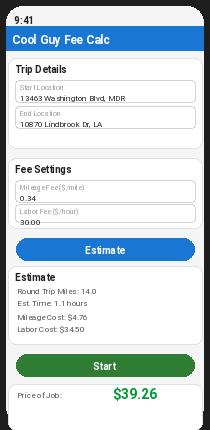
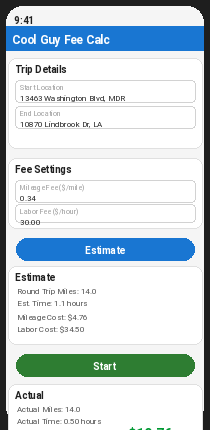
Price card now shows Actual miles, Actual time, and total price; update mockup

diff --git a/app/src/main/java/com/coolguy/feeCalc/MainActivity.kt b/app/src/main/java/com/coolguy/feeCalc/MainActivity.kt
@@ -33,6 +33,8 @@ class MainActivity : AppCompatActivity() {
     private var estimatedMiles = 0.0
     private var estimatedMileageFee = 0.0
     private var estimatedLaborFee = 0.0
+    private var savedMileageRate = 0.34
+    private var savedLaborRate = 30.0
     private var jobStartNanos = 0L
 
     companion object {
@@ -197,6 +199,8 @@ class MainActivity : AppCompatActivity() {
                 estimatedMiles = result.totalMiles
                 estimatedMileageFee = estimatedMiles * mileageRate
                 estimatedLaborFee = result.totalHours * laborRate
+                savedMileageRate = mileageRate
+                savedLaborRate = laborRate
 
                 withContext(Dispatchers.Main) {
                     showEstimate(estimatedMiles, result.totalHours,
@@ -219,13 +223,17 @@ class MainActivity : AppCompatActivity() {
                 applyState()
             }
             JobState.RUNNING -> {
-                val laborRate = binding.etLaborFee.text.toString().toDoubleOrNull() ?: 30.00
                 val elapsedNanos = System.nanoTime() - jobStartNanos
                 val elapsedMinutes = elapsedNanos / 60_000_000_000.0
-                val actualLaborFee = (elapsedMinutes / 60.0) * laborRate
+                val elapsedHours = elapsedMinutes / 60.0
+                val actualLaborFee = elapsedHours * savedLaborRate
                 val totalFee = estimatedMileageFee + actualLaborFee
 
                 binding.cardPrice.visibility = View.VISIBLE
+                binding.tvActMiles.text = getString(R.string.act_miles,
+                    String.format(Locale.US, "%.1f", estimatedMiles))
+                binding.tvActTime.text = getString(R.string.act_time,
+                    String.format(Locale.US, "%.2f", elapsedHours))
                 binding.tvPrice.text = getString(R.string.price_display,
                     String.format(Locale.US, "%.2f", totalFee))
 
@@ -247,6 +255,8 @@ class MainActivity : AppCompatActivity() {
         estimatedMiles = 0.0
         estimatedMileageFee = 0.0
         estimatedLaborFee = 0.0
+        savedMileageRate = 0.34
+        savedLaborRate = 30.0
         jobStartNanos = 0L
 
         state = JobState.IDLE

diff --git a/README.md b/README.md
@@ -54,6 +54,8 @@ Price of Job: {CALCULATED_PRICE_OF_JOB}
 (START/STOP_BUTTON) : Starts a timer that keeps track of the actual time it took to execute the job. Once the job starts,
 the button displays STOP. When the STOP button is clicked the {CALCULATED_PRICE_OF_JOB} is displayed.
 
+{CALCULATED_PRICE_OF_JOB} : Displays Actual miles, actual time, actual calculated price of cost of job
+
 (RESET_BUTTON) : Resets the UI, clearing all values in anticipation of accepting another job.
 
 